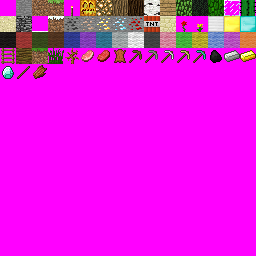
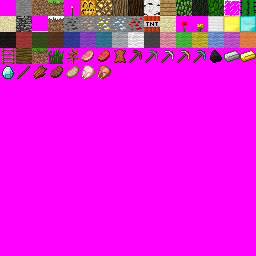
Added more meats (Cooked), and updates max item num (I forgot to in the previous commit).

Changed region(s): [[0.1875, 0.25, 0.4375, 0.3125]]

diff --git a/MineDS/source/blocks.cpp b/MineDS/source/blocks.cpp
@@ -11,7 +11,8 @@ int walkThroughBlocks[]={AIR,YELLOW_FLOWER,RED_FLOWER,SNOW_TOP,TORCH,LADDER,SHRU
 int renderBright[]={AIR,LOG,OAK_WOOD,BIRCH_WOOD,LEAF,YELLOW_FLOWER,RED_FLOWER,CACTUS,TORCH,REDWOOD_LEAF,GLASS,SNOW_TOP,SHRUB,TALL_GRASS};
 int lightSourceBlocks[]={TORCH,PUMPKIN_LIGHT,GLOWSTONE};
 int items[]={PORKCHOP_RAW,BEEF_RAW,LEATHER,PICKAXE_WOOD,PICKAXE_STONE,
-		PICKAXE_IRON,PICKAXE_GOLD,PICKAXE_DIAMOND,COAL,IRON,GOLD,DIAMOND,STICK,FLESH};
+		PICKAXE_IRON,PICKAXE_GOLD,PICKAXE_DIAMOND,COAL,IRON,GOLD,DIAMOND,
+		STICK,FLESH,BEEF_COOKED,PORKCHOP_COOKED,CHICKEN_RAW,CHICKEN_COOKED};
 int hardness[NUM_BLOCKS]; //Slot is ID number, negative number means tool
 /*
 ----TOOL----

diff --git a/MineDS/source/mining.h b/MineDS/source/mining.h
@@ -1,6 +1,6 @@
 #include "world.h"
 #include <nds.h>
-#define NUM_BLOCKS 65
+#define NUM_BLOCKS 70
 int getSelectedblock();
 void miningUpdate(worldObject* world,int sx,int sy,touchPosition touch, int keys);
 void blocksCanPlace();

diff --git a/MineDS/source/blockID.h b/MineDS/source/blockID.h
@@ -75,3 +75,7 @@
 #define DIAMOND 64
 #define STICK 65
 #define FLESH 66
+#define BEEF_COOKED 67
+#define PORKCHOP_COOKED 68
+#define CHICKEN_RAW 69
+#define CHICKEN_COOKED 70
